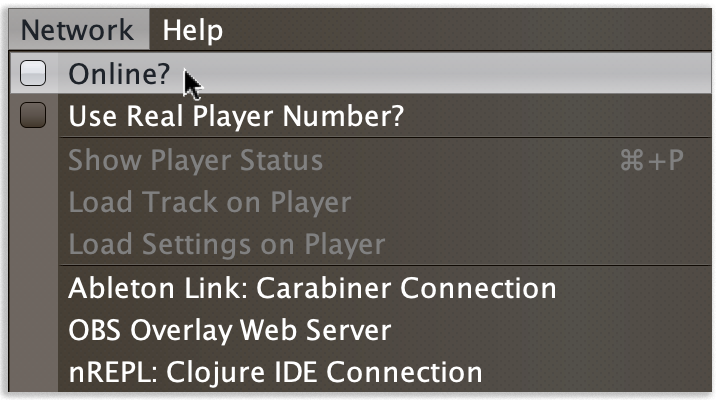
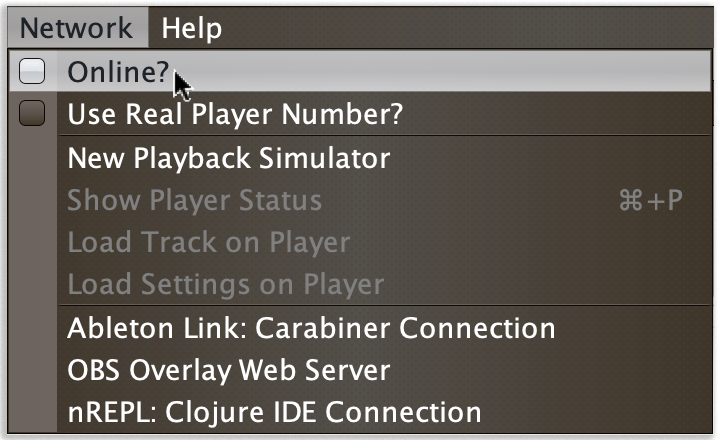
Document playback simulator, closes #159

Changed region(s): [[0.0, 0.0, 1.0, 1.0]]

diff --git a/CHANGELOG.md b/CHANGELOG.md
@@ -9,8 +9,8 @@ This change log follows the conventions of
 ### Added
 
 - A "shallow playback simulation" system that allows coordinated sets
-  of show expressions to be tested by pretending that a player is
-  sending events as a track is played.
+  of triggers, cues, and expressions to be tested by pretending that
+  one or more players are sending events as a track is played.
 
 ### Fixed
 
